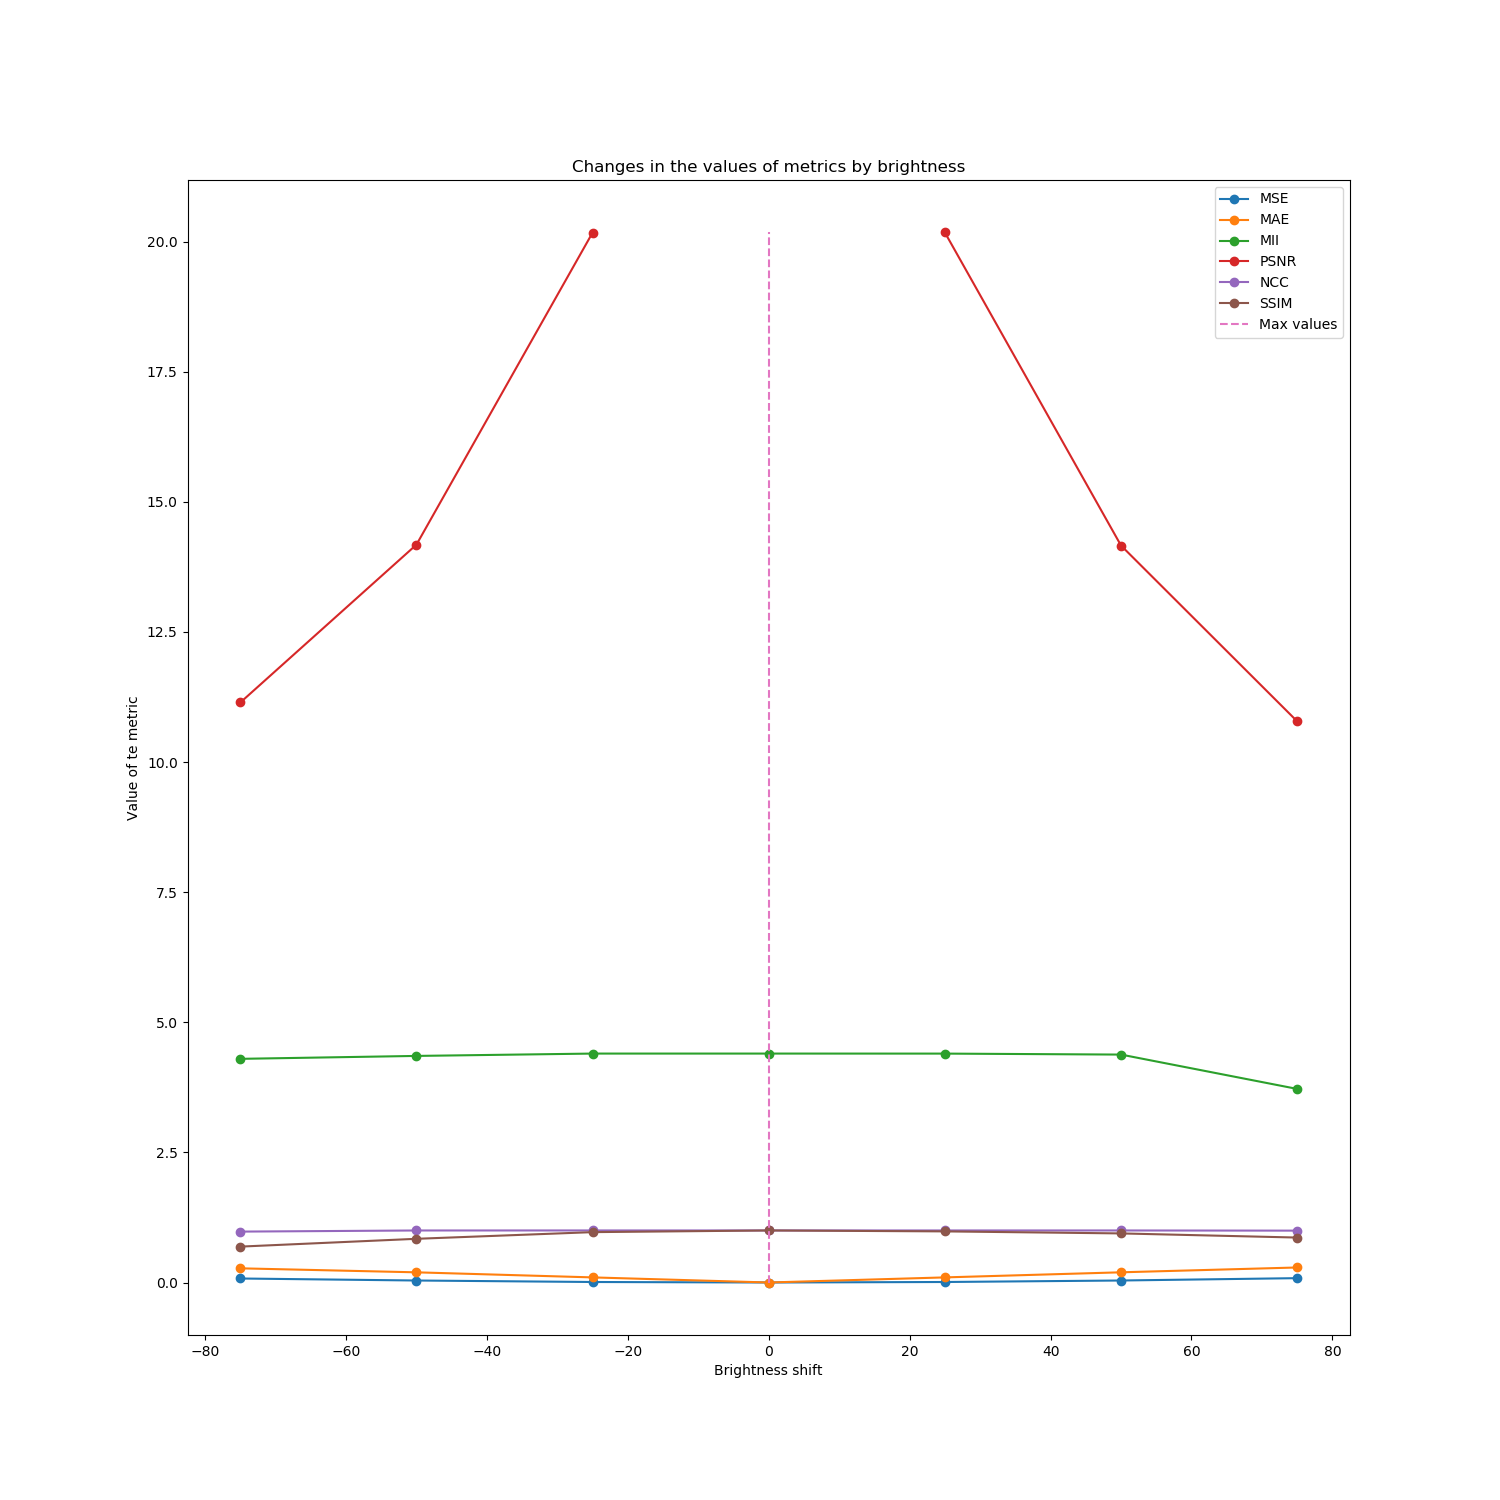
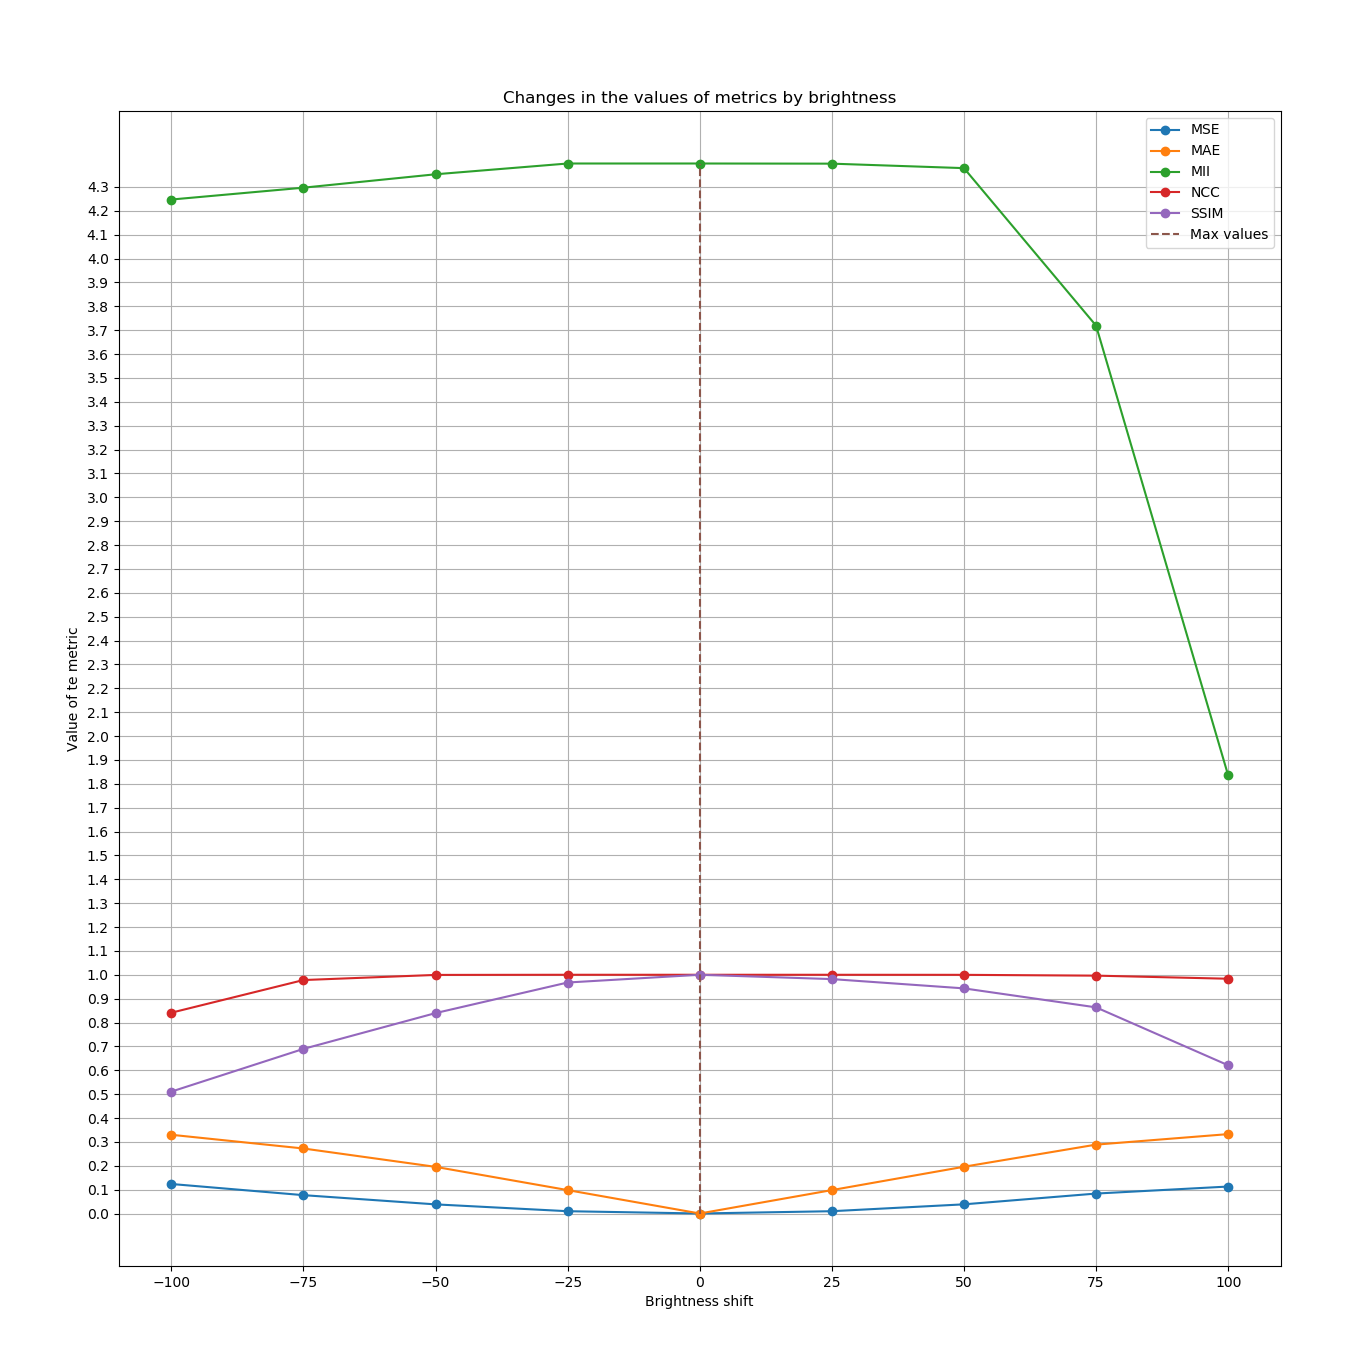
Plot for PSNR metric, grid for plots

diff --git a/generate_datasets_for_testing_metrics.py b/generate_datasets_for_testing_metrics.py
@@ -30,27 +30,35 @@ new_image = np.zeros(image.shape, image.dtype)
 image_plus_1_5_contrast = cv.convertScaleAbs(image, alpha=1.5, beta=0)
 image_plus_2_contrast = cv.convertScaleAbs(image, alpha=2., beta=0)
 image_plus_2_5_contrast = cv.convertScaleAbs(image, alpha=2.5, beta=0)
+image_plus_3_contrast = cv.convertScaleAbs(image, alpha=3, beta=0)
 image_minus_0_5_contrast = cv.convertScaleAbs(image, alpha=0.5, beta=0)
 image_minus_1_contrast = cv.convertScaleAbs(image, alpha=0., beta=0)
 image_minus_1_5_contrast = cv.convertScaleAbs(image, alpha=-0.5, beta=0)
+image_minus_2_contrast = cv.convertScaleAbs(image, alpha=-1, beta=0)
 
 image_plus_25_brightness = cv.convertScaleAbs(image, alpha=1., beta=25)
 image_plus_50_brightness = cv.convertScaleAbs(image, alpha=1., beta=50)
 image_plus_75_brightness = cv.convertScaleAbs(image, alpha=1., beta=75)
+image_plus_100_brightness = cv.convertScaleAbs(image, alpha=1., beta=100)
 image_minus_25_brightness = cv.convertScaleAbs(image, alpha=1., beta=-25)
 image_minus_50_brightness = cv.convertScaleAbs(image, alpha=1., beta=-50)
 image_minus_75_brightness = cv.convertScaleAbs(image, alpha=1., beta=-75)
+image_minus_100_brightness = cv.convertScaleAbs(image, alpha=1., beta=-100)
 
-cv.imwrite(join(contrast_images_dir_path, "+1_5" + image_format), image_plus_1_5_contrast)
+cv.imwrite(join(contrast_images_dir_path, "+1.5" + image_format), image_plus_1_5_contrast)
 cv.imwrite(join(contrast_images_dir_path, "+2" + image_format), image_plus_2_contrast)
-cv.imwrite(join(contrast_images_dir_path, "+2_5" + image_format), image_plus_2_5_contrast)
-cv.imwrite(join(contrast_images_dir_path, "-0_5" + image_format), image_minus_0_5_contrast)
+cv.imwrite(join(contrast_images_dir_path, "+2.5" + image_format), image_plus_2_5_contrast)
+cv.imwrite(join(contrast_images_dir_path, "+3" + image_format), image_plus_3_contrast)
+cv.imwrite(join(contrast_images_dir_path, "-0.5" + image_format), image_minus_0_5_contrast)
 cv.imwrite(join(contrast_images_dir_path, "-1" + image_format), image_minus_1_contrast)
-cv.imwrite(join(contrast_images_dir_path, "-1_5" + image_format), image_minus_1_5_contrast)
+cv.imwrite(join(contrast_images_dir_path, "-1.5" + image_format), image_minus_1_5_contrast)
+cv.imwrite(join(contrast_images_dir_path, "-2" + image_format), image_minus_2_contrast)
 
 cv.imwrite(join(brightness_images_dir_path, "+25" + image_format), image_plus_25_brightness)
 cv.imwrite(join(brightness_images_dir_path, "+50" + image_format), image_plus_50_brightness)
 cv.imwrite(join(brightness_images_dir_path, "+75" + image_format), image_plus_75_brightness)
+cv.imwrite(join(brightness_images_dir_path, "+100" + image_format), image_plus_100_brightness)
 cv.imwrite(join(brightness_images_dir_path, "-25" + image_format), image_minus_25_brightness)
 cv.imwrite(join(brightness_images_dir_path, "-50" + image_format), image_minus_50_brightness)
 cv.imwrite(join(brightness_images_dir_path, "-75" + image_format), image_minus_75_brightness)
+cv.imwrite(join(brightness_images_dir_path, "-100" + image_format), image_minus_100_brightness)

diff --git a/test_metrics.py b/test_metrics.py
@@ -54,19 +54,40 @@ def get_metrics_values_for_image_shifts(
 
 
 def plot_for_metrics_shifts_values(metrics_shifts_values, shift_name, save_to_dir=None, show=True):
-    fig, ax = plt.subplots()  # Create a figure and an axes.
-    fig.set_size_inches(15, 15)
-    ax.set_xlabel(f'{shift_name.title()} shift')
-    ax.set_ylabel('Value of te metric')
-    ax.set_title(f"Сhanges in the values of metrics by {shift_name}")
-    ax.legend()  # Add a legend.
+    if "PSNR" in metrics_shifts_values.keys():
+        fig1, ax1 = plt.subplots()  # Create a figure and an axes.
+        fig1.set_size_inches(15, 15)
+        ax1.set_xlabel(f'{shift_name.title()} shift')
+        ax1.set_ylabel('Value of te metric')
+        ax1.set_title(f"Сhanges in the values of metrics by {shift_name}")
+        ax1.legend()  # Add a legend.
+        shifts, values = zip(*sorted(metrics_shifts_values["PSNR"].items()))
+        ax1.plot(shifts, values, 'o-', label="PSNR")
+        max_val = max(*[value for value in values if value != np.inf])
+        ax1.plot((0, 0), (0, max_val), linestyle="--", label="Max values")
+        ax1.legend()
+        plt.grid()
+        if show:
+            plt.show()
+        if save_to_dir:
+            plt.savefig(join(save_to_dir, shift_name + "_" + "PSNR" + ".png"), dpi=100)
+        metrics_shifts_values.pop("PSNR")
+
+    fig2, ax2 = plt.subplots()  # Create a figure and an axes.
+    fig2.set_size_inches(15, 15)
+    ax2.set_xlabel(f'{shift_name.title()} shift')
+    ax2.set_ylabel('Value of te metric')
+    ax2.set_title(f"Сhanges in the values of metrics by {shift_name}")
+    ax2.legend()  # Add a legend.
     max_val = 0
     for metric in metrics_shifts_values:
         shifts, values = zip(*sorted(metrics_shifts_values[metric].items()))
-        ax.plot(shifts, values, 'o-', label=metric)
+        ax2.plot(shifts, values, 'o-', label=metric)
         max_val = max(max([value for value in values if value != np.inf]), max_val)
-    ax.plot((0, 0), (0, max_val), linestyle="--", label="Max values")
-    ax.legend()
+    ax2.plot((0, 0), (0, max_val), linestyle="--", label="Max values")
+    ax2.set_yticks(np.arange(0, max_val, 0.1))
+    ax2.legend()
+    plt.grid()
     if show:
         plt.show()
     if save_to_dir:
